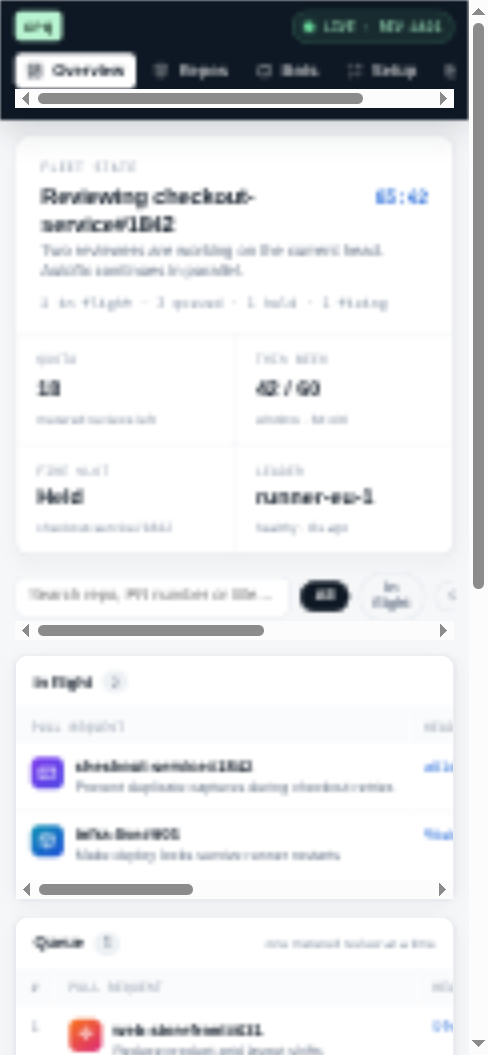
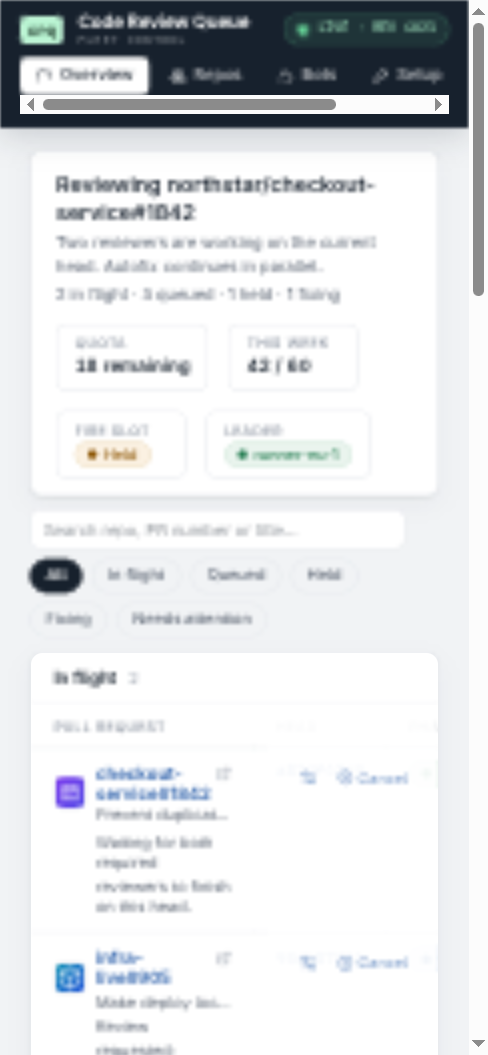
docs: recapture dashboard assets from real app

diff --git a/docs/screenshots/dashboard/README.md b/docs/screenshots/dashboard/README.md
@@ -1,8 +1,9 @@
 # Dashboard screenshots
 
-Fictional product data for public documentation and website work. No repository,
-pull request, host, path, or fleet state in these images comes from a real crq
-installation.
+The committed dashboard SPA and its real CSS/components, rendered against an
+isolated fictional API fixture for public documentation and website work. No
+repository, pull request, host, path, or fleet state in these images comes from
+a real crq installation.
 
 ![Dashboard screenshot contact sheet](contact-sheet.png)
 
@@ -16,8 +17,3 @@ installation.
 - `settings.png`: review, autofix, queue, and runtime policy
 - `pull-request-findings.png`: detailed review round with three findings and pricing
 - `overview-mobile.png`: mobile overview
-- `repositories-mobile.png`: mobile repository inventory
-- `studio.html`: self-contained fictional dashboard used to generate the set
-
-The editable screenshot studio is published at
-[plans.kristofferr.com/d/4uuani4587ba](https://plans.kristofferr.com/d/4uuani4587ba).
